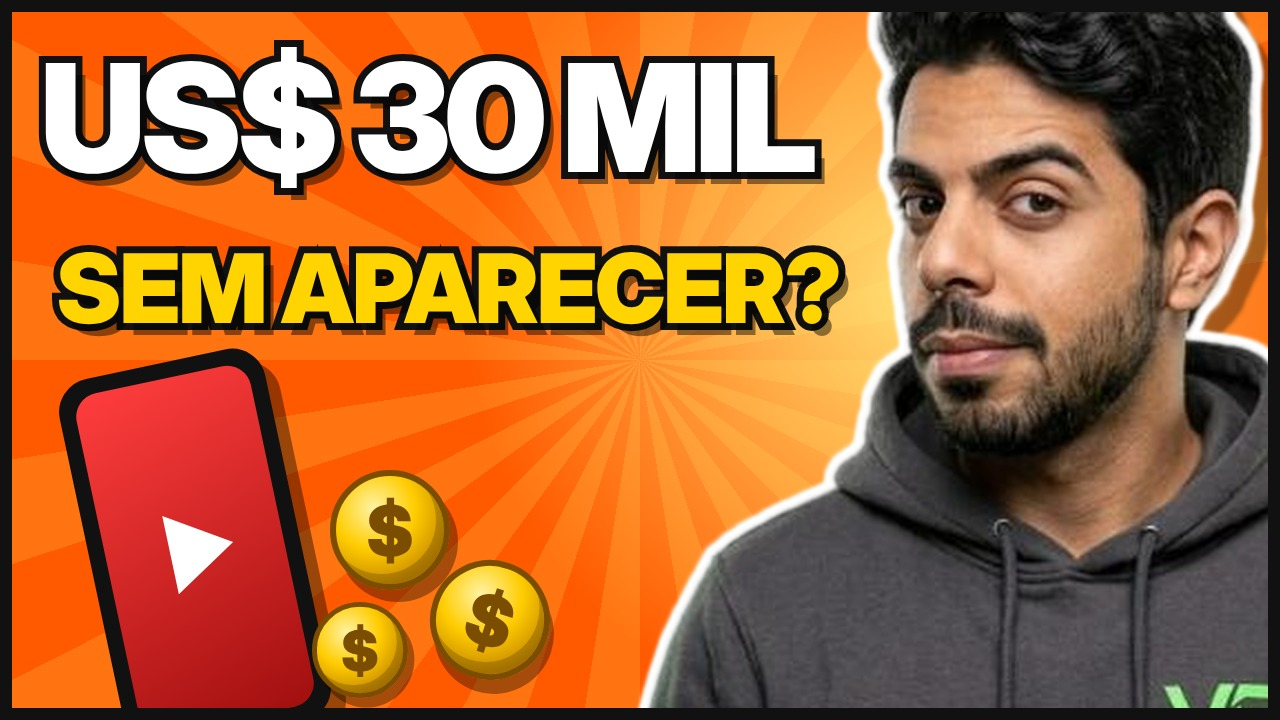
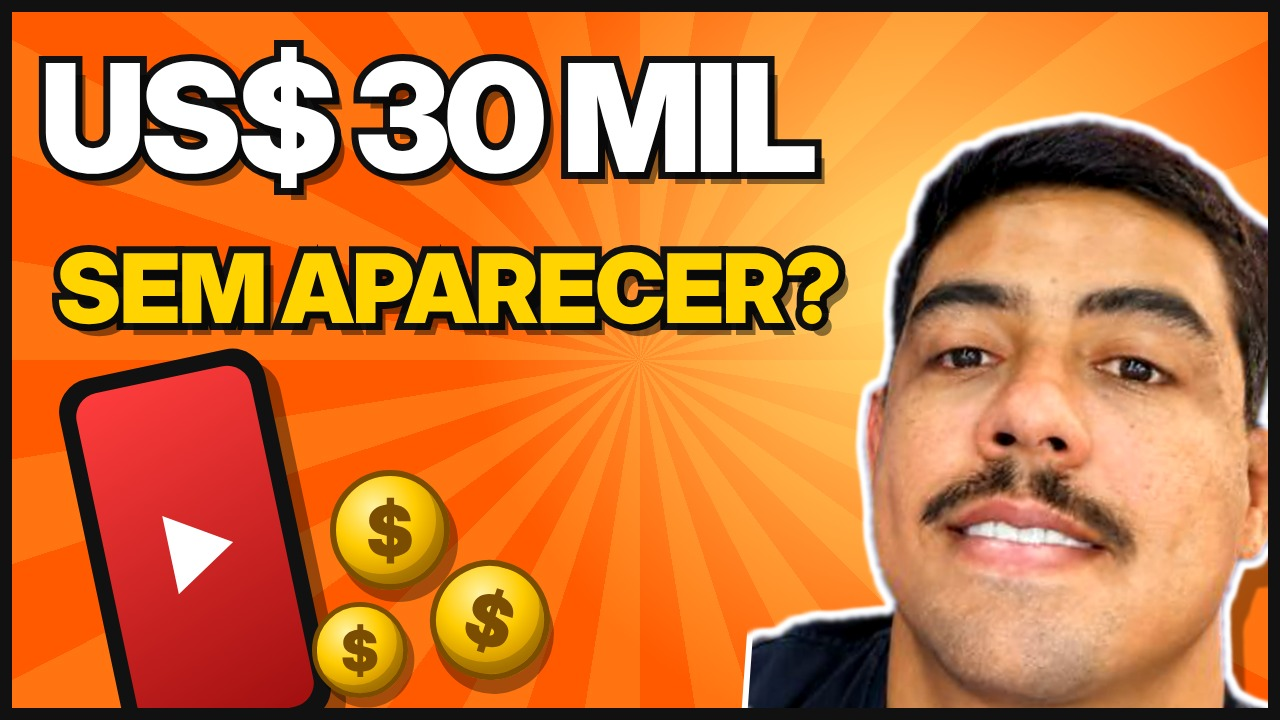
Thumbs: rosto do Patrick (foto original + recorte) e opções do vídeo 7 com ele
Claude-Session: https://claude.ai/code/session_01SMH9EYQoZW8Yjy9N6aq1gr

diff --git a/video-07-shorts-sem-aparecer/publicar/variacoes/c.html b/video-07-shorts-sem-aparecer/publicar/variacoes/c.html
@@ -1,14 +1,14 @@
 <!doctype html><html><head><meta charset="utf-8"><link rel="stylesheet" href="../../../canal/thumb-chamativa/base.css"><link rel="stylesheet" href="_comum.css"><style>
 :root{--bg:#d4141b;--ray:#ef3b2a}
 .glow{background:radial-gradient(circle at 78% 55%,rgba(255,200,120,.8),rgba(255,200,120,0) 45%)}
-.foto{left:660px;height:820px}
+.foto{left:760px;height:660px;transform:rotate(-4deg)}
 .old{left:50px;top:40px;font-size:120px;letter-spacing:-4px;color:#ffd6d6}
 .old:after{content:"";position:absolute;left:-14px;right:-14px;top:44%;height:22px;background:#111;border-radius:10px;transform:rotate(-6deg)}
 .l1{left:40px;top:170px;font-size:260px;letter-spacing:-10px;line-height:.85}
 .l2{left:60px;top:440px;font-size:88px;letter-spacing:-2px}
 
 </style></head><body><div class="rays"></div><div class="glow"></div>
-<img class="foto" src="../../../canal/thumb-chamativa/rosto-facepalm.png">
+<img class="foto" src="../../../canal/thumb-chamativa/rosto-patrick.png">
 <div class="fx old out">US$ 30 MIL</div>
 <div class="fx l1 out yel">US$ 0</div>
 <div class="fx l2 out">SEM APARECER</div>

diff --git a/video-07-shorts-sem-aparecer/publicar/variacoes/b.html b/video-07-shorts-sem-aparecer/publicar/variacoes/b.html
@@ -1,12 +1,12 @@
 <!doctype html><html><head><meta charset="utf-8"><link rel="stylesheet" href="../../../canal/thumb-chamativa/base.css"><link rel="stylesheet" href="_comum.css"><style>
 :root{--bg:#1a0b3a;--ray:#2c1460}
 .glow{background:radial-gradient(circle at 25% 45%,rgba(160,90,255,.75),rgba(160,90,255,0) 45%)}
-.foto{left:-90px;height:800px}
+.foto{left:10px;height:660px;transform:scaleX(-1) rotate(4deg)}
 .l1{left:540px;top:60px;font-size:140px;letter-spacing:-5px;line-height:.9}
 .l2{left:510px;top:220px;font-size:128px;letter-spacing:-5px}
 .tag2{left:540px;top:420px;font-size:62px;transform:rotate(-3deg)}
 </style></head><body><div class="rays"></div><div class="glow"></div>
-<img class="foto" src="../../../canal/thumb-chamativa/rosto-segredo.png">
+<img class="foto" src="../../../canal/thumb-chamativa/rosto-patrick.png">
 <div class="fx l1 out">SHORTS</div>
 <div class="fx l2 out yel">SEM ROSTO</div>
 <div class="fx tag2"><span class="red">DESMONETIZA?</span></div>

diff --git a/video-07-shorts-sem-aparecer/publicar/variacoes/a.html b/video-07-shorts-sem-aparecer/publicar/variacoes/a.html
@@ -1,11 +1,11 @@
 <!doctype html><html><head><meta charset="utf-8"><link rel="stylesheet" href="../../../canal/thumb-chamativa/base.css"><link rel="stylesheet" href="_comum.css"><style>
 :root{--bg:#ff5a00;--ray:#ff8a1f}
 .glow{background:radial-gradient(circle at 72% 40%,rgba(255,230,120,.95),rgba(255,230,120,0) 45%)}
-.foto{left:640px;height:860px}
+.foto{left:770px;height:660px;transform:rotate(4deg)}
 .l1{left:40px;top:50px;font-size:150px;letter-spacing:-6px;line-height:.9}
 .l2{left:56px;top:230px;font-size:96px;letter-spacing:-2px}
 </style></head><body><div class="rays"></div><div class="glow"></div>
-<img class="foto" src="../../../canal/thumb-chamativa/rosto-desconfiado.png">
+<img class="foto" src="../../../canal/thumb-chamativa/rosto-patrick.png">
 <div class="fx l1 out">US$ 30 MIL</div>
 <div class="fx l2 out yel">SEM APARECER?</div>
 <div class="fone" style="left:90px;top:360px;transform:rotate(-12deg)"><div class="tela"><div class="play"></div></div></div>
